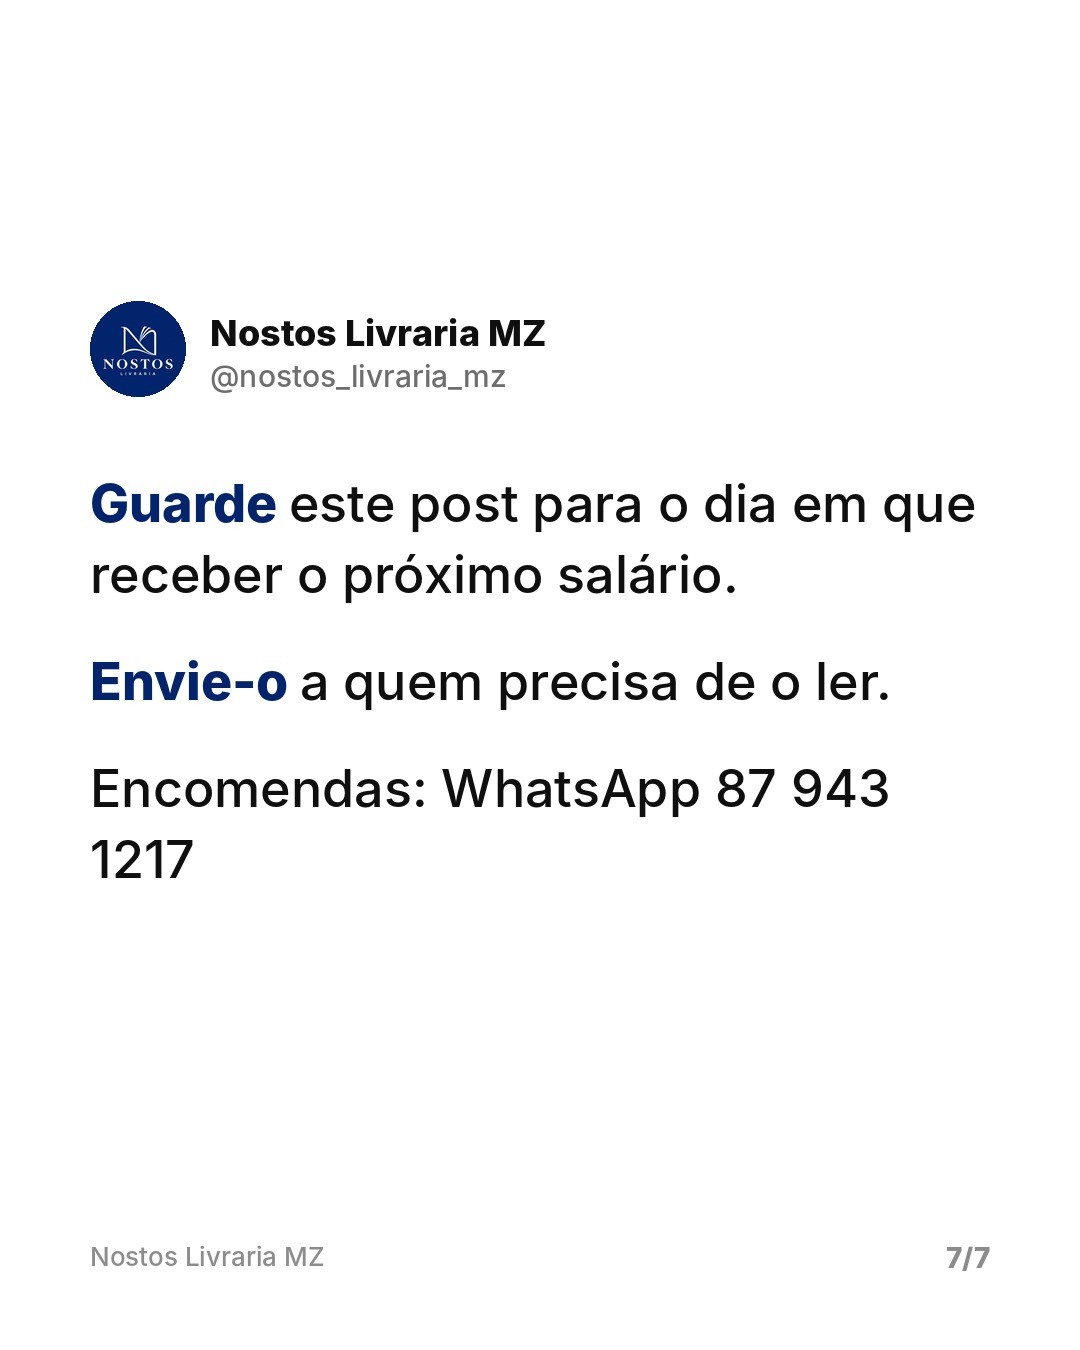
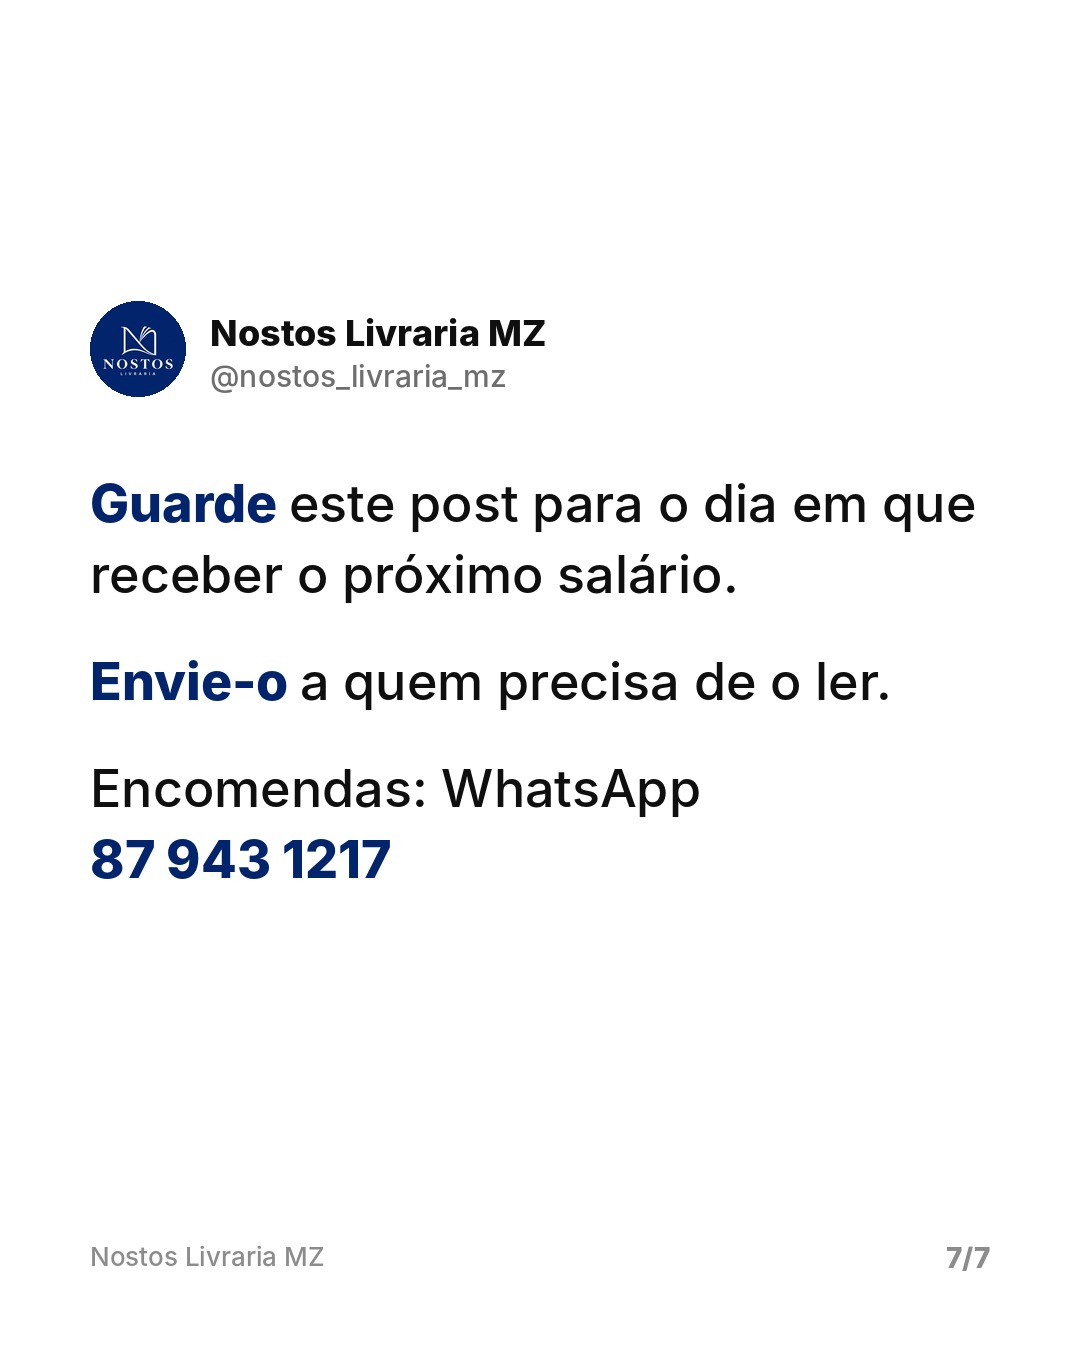
Exemplos formais; número do WhatsApp sem quebra de linha
Claude-Session: https://claude.ai/code/session_01158HqZBK5N8s9ruNUS9Jgj

Changed region(s): [[0.0611, 0.6222, 0.3667, 0.6533], [0.6417, 0.56, 0.825, 0.6222]]

diff --git a/engine/render.py b/engine/render.py
@@ -52,7 +52,9 @@ def wrap(d, text, f, maxw):
             out.append("")
             continue
         line = ""
-        for w in para.split():
+        for w in para.split(" "):
+            if not w:
+                continue
             t = (line + " " + w).strip()
             if d.textlength(t, font=f) <= maxw:
                 line = t
@@ -337,7 +339,9 @@ def nota_draw(W, H, p, n, total):
             y += int(size * 0.7)
             continue
         line_words, x = [], M
-        for w in para.split():
+        for w in para.split(" "):
+            if not w:
+                continue
             fw = fb if w.lower().strip(".,!?:;\"“”") in hl or p.get("bold") else f
             tw = d.textlength(w + " ", font=fw)
             if x + tw > W - M and line_words:

diff --git a/CLAUDE.md b/CLAUDE.md
@@ -44,7 +44,7 @@ Ler primeiro `data/brand.md`, `data/catalogo.md`, `data/insights.md` e as últim
 - **Hook na 1ª imagem**: tema que toda a gente conhece e sente (dinheiro, salário, relações, ansiedade, trabalho,
   disciplina, família, fé, amor, telemóvel, solidão, sucesso). Nada de palavras desconhecidas ou temas de nicho
   (ex.: "tsundoku" ficou morto). O hook tem de fazer parar o dedo: frase curta, concreta, que dói ou intriga
-  ("Recebes no dia 25. No dia 10 já não há nada."). Máx. ~15 palavras.
+  ("A maioria das pessoas não tem um problema de salário. Tem um problema de mentalidade."). Máx. ~15 palavras.
 - **Desenvolvimento**: cada imagem uma ideia, frases curtas, ritmo que obriga a deslizar.
 - **1.ª imagem = SÓ o hook polémico.** Nunca CTA na 1.ª imagem ("guarde este post", "envie a alguém", WhatsApp,
   preço) – isso não chama atenção. CTAs, livro e contacto vão **só nas últimas imagens**.
@@ -59,7 +59,7 @@ Ler primeiro `data/brand.md`, `data/catalogo.md`, `data/insights.md` e as últim
 - Exemplo de referência: `posts/_amostra/spec_dinheiro.json` (carrossel "dinheiro", estilo nota, voz formal).
 
 ## Rotação – FEED DA MANHÃ (06:45): carrossel
-- Seg: nota – "Ninguém te diz isto sobre…" (dinheiro/trabalho/relações) + livro do catálogo
+- Seg: nota – "Ninguém lhe diz isto sobre…" (dinheiro/trabalho/relações) + livro do catálogo
 - Ter: design – verdades incómodas (5–7 frases fortes)
 - Qua: nota – lista "X livros para quem…" (livros do catálogo, 1 por imagem)
 - Qui: page – reflexão com hook forte
@@ -126,8 +126,8 @@ Cada post tem de dar uma razão forte para seguir a página e para ler. Priorida
   Usar dados reais (estudos, inquéritos, estatísticas) só depois de os confirmar na web em fonte fiável,
   e indicar a fonte na legenda ("Fonte: …"). Nunca inventar números.
 - **Valor que dá vontade de seguir**: séries recorrentes que as pessoas esperam (ex.: "Palavra da semana",
-  "O livro que te faltava", "Ninguém te diz isto sobre…"), listas úteis, verdades incómodas, perguntas que
-  pedem resposta. Terminar muitas legendas com "Segue a @nostos_livraria_mz para mais" quando fizer sentido.
+  "O livro que te faltava", "Ninguém lhe diz isto sobre…"), listas úteis, verdades incómodas, perguntas que
+  pedem resposta. Terminar muitas legendas com "Siga a @nostos_livraria_mz para mais" quando fizer sentido.
 - **Livros novos**: mostrar que há sempre livros novos e certos para cada fase da vida (catálogo dos anúncios).
 - **Pessoas no ecrã**: posts com pessoas reais chamam mais atenção. Sempre que `fotos/` tiver fotos ou vídeos
   reais ainda não usados (pessoas moçambicanas, leitores, clientes, entregas, a equipa), dar-lhes prioridade
